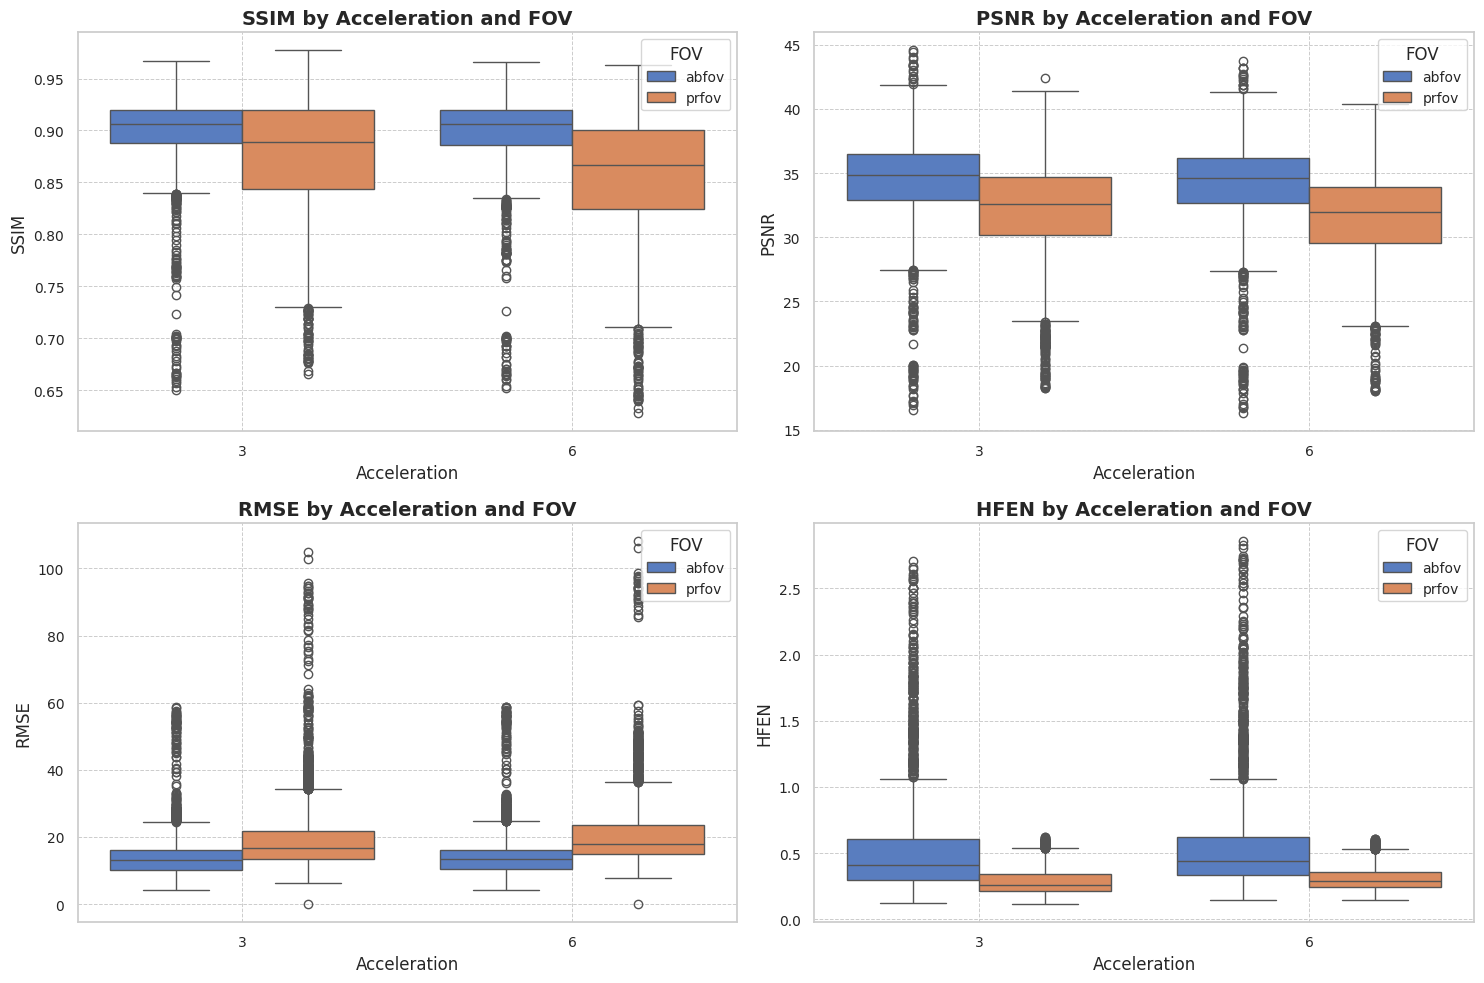
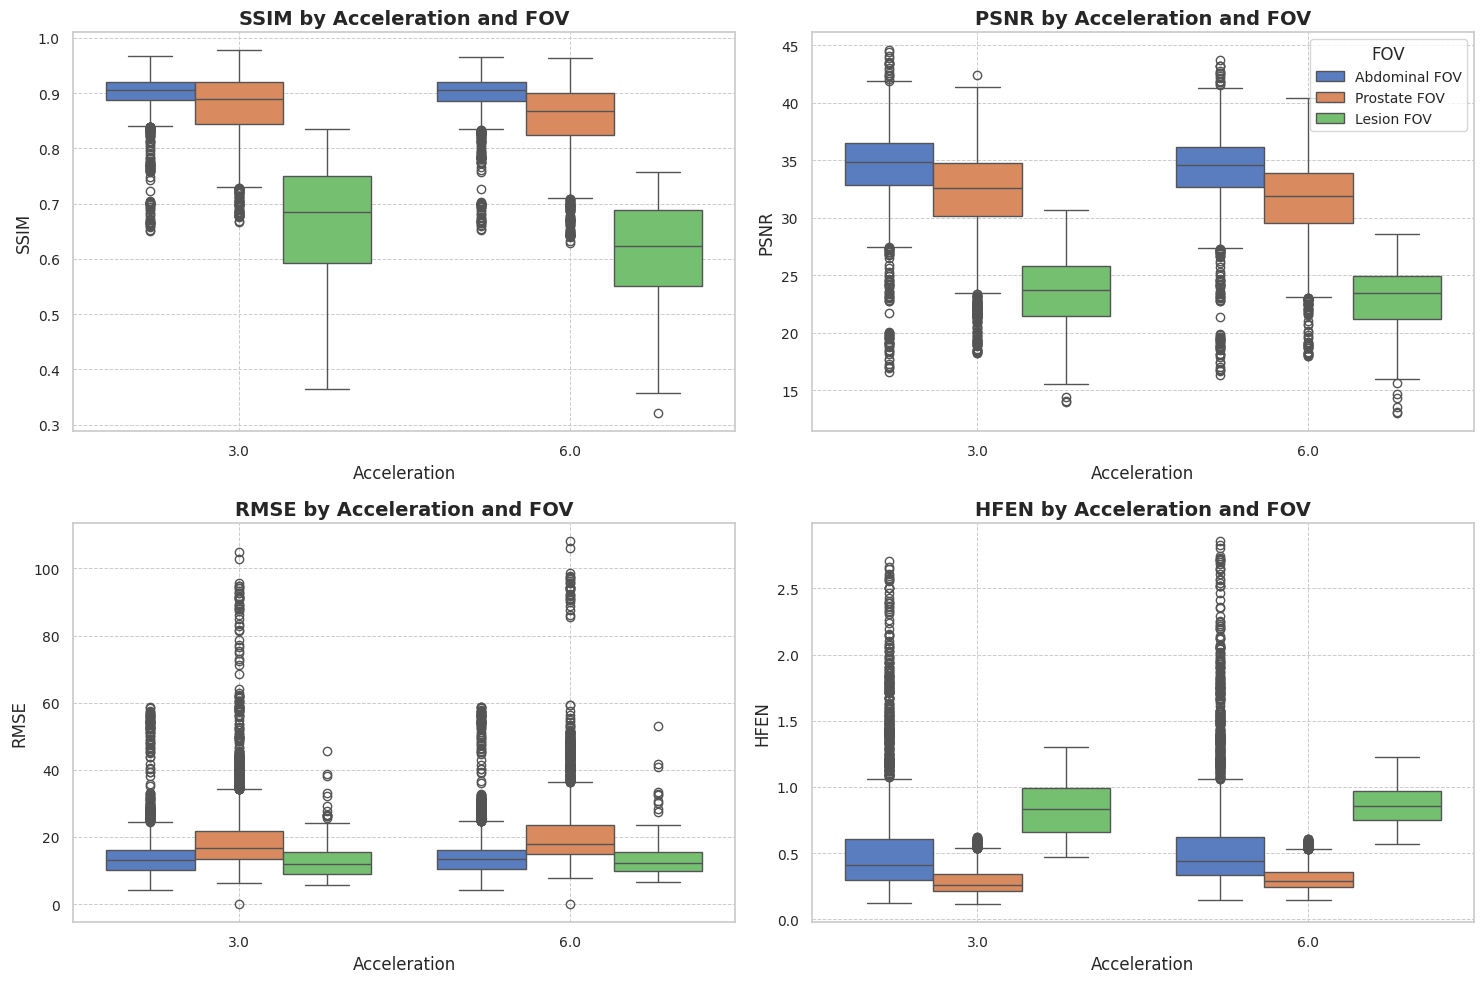
Updated the legend of the boxplot

diff --git a/scripts/02_calculate_iqms_to_csv.py b/scripts/02_calculate_iqms_to_csv.py
@@ -361,17 +361,23 @@ def calc_iqms_on_all_patients(
                     recon_fpath = [x for x in acc_pat_dir.iterdir() if f"vsharpnet_r{acc}_recon.nii.gz" in x.name.lower()][0]
                     recon       = load_nifti_as_array(recon_fpath)
                     df          = calc_iqm_and_add_to_df(df, recon, loaded_fovs['abfov'], pat_dir, acc, iqms, fov, decimals, iqm_mode, logger)
-
                 elif fov == 'prfov':
                     recon_fpath = [x for x in pat_dir.iterdir() if f"vsharp_r{acc}_recon_dcml" in x.name.lower()][0]
                     recon       = load_nifti_as_array(recon_fpath)
                     df          = calc_iqm_and_add_to_df(df, recon, loaded_fovs['prfov'], pat_dir, acc, iqms, fov, decimals, iqm_mode, logger)
-
                 elif fov == 'lsfov':
                     ref_nifti = sitk.ReadImage(str(fov_files['prfov']))  # sitk image for resampling
                     for seg_idx, seg_fpath in enumerate(fov_files[fov]):
                         df, _ = process_lesion_fov(df, seg_idx, recon, loaded_fovs['prfov'], seg_fpath, ref_nifti, pat_dir, acc, iqms, decimals, logger)
-            
+                elif fov == 'fat':
+                    pass
+                elif fov == 'bone':
+                    pass
+                elif fov == 'muscle':
+                    pass
+                elif fov == 'prostate':
+                    pass
+
             # Calculate an SSIM map of the reconstruction versus the target
             if do_ssim_map:
                 ref_nifti = sitk.ReadImage(str(pat_dir / "recons" / f"RIM_R{acc}_recon_{pat_dir.name}_pst_T2_dcml_target.nii.gz"))
@@ -422,6 +428,7 @@ def calc_or_load_iqms_df(
     force_new_csv: bool,
     iqms: List[str],
     logger: logging.Logger,
+    debug: bool = False,
     **cfg,
 ) -> pd.DataFrame:
     '''
@@ -437,6 +444,9 @@ def calc_or_load_iqms_df(
     Returns:
     `df`: The DataFrame with the IQMs for all patients.
     '''
+    if debug:       # lets add 'debug' reight before the file extension of the csv_out_fpath
+        csv_out_fpath = csv_out_fpath.parent / (csv_out_fpath.stem + '_debug' + csv_out_fpath.suffix)
+
     if not csv_out_fpath.exists() or force_new_csv:
         df = init_empty_dataframe(iqms, logger)
         df = calc_iqms_on_all_patients(
@@ -451,7 +461,6 @@ def calc_or_load_iqms_df(
         df = pd.read_csv(csv_out_fpath, sep=';')
         logger.info(f"Loaded DataFrame from {csv_out_fpath}")
     return df
-
 
 
 def make_iqms_plots(
@@ -636,7 +645,7 @@ def get_configurations() -> dict:
         'do_ssim_map':        False,                             # Whether to calculate and save the SSIM map.
         'fovs':               ['abfov', 'prfov', 'lsfov'],       # FOVS options :['abfov','prfov','lsfov','fat','bone','muscle','prostate']
         # 'fovs':               ['lsfov'],       # FOVS options :['abfov','prfov','lsfov','fat','bone','muscle','prostate']
-        'debug':              True,                              # Whether to run in debug mode.
+        'debug':              False,                              # Whether to run in debug mode.
         'force_new_csv':      False,                              # Whether to overwrite the existing CSV file.
     }
 
@@ -659,7 +668,6 @@ if __name__ == "__main__":
     if cfg['debug']:
         cfg['include_list'] = ['0053_ANON5517301', '0032_ANON7649583', '0120_ANON7275574']  # Random selection of patients for debugging
         cfg['include_list'] = ['0003_ANON5046358', '0006_ANON2379607', '0007_ANON1586301']  # have rois 
-    
     
     PADDING             = 20
     DO_SAVE_LESION_SEGS = True

diff --git a/scripts/visualization.py b/scripts/visualization.py
@@ -294,9 +294,17 @@ def plot_all_iqms_vs_accs_vs_fovs_boxplot(
             # Add sample size to legend
             handles, labels = ax.get_legend_handles_labels()
             sample_counts = df.groupby(['acceleration', 'roi']).size().unstack().fillna(0)
-            new_labels = [f'{label} (n={int(sample_counts[col][acc])})' 
-                        for col, label in zip(sample_counts.columns, labels) 
-                        for acc in sample_counts.index]
+            
+            # Construct new labels with sample sizes
+            sample_count_dict = sample_counts.sum().to_dict()
+            new_labels = []
+            for label in labels:
+                fov_name = ' '.join(label.split()[:-2])  # Extract FOV name without the sample size part
+                if fov_name in sample_count_dict:
+                    new_labels.append(f'{label} (n={sample_count_dict[fov_name]})')
+                else:
+                    new_labels.append(label)  # Use the original label if mapping fails
+
             ax.legend(handles, new_labels, title='FOV', loc='upper right')
             
             plt.grid(True, linestyle='--', linewidth=0.7)
@@ -319,9 +327,17 @@ def plot_all_iqms_vs_accs_vs_fovs_boxplot(
         if i == 1:  # Enable legend only for the second plot (index 1)
             handles, labels = ax.get_legend_handles_labels()
             sample_counts = df.groupby(['acceleration', 'roi']).size().unstack().fillna(0)
-            new_labels = [f'{label} (n={int(sample_counts[col][acc])})' 
-                        for col, label in zip(sample_counts.columns, labels) 
-                        for acc in sample_counts.index]
+            
+            # Construct new labels with sample sizes
+            sample_count_dict = sample_counts.sum().to_dict()
+            new_labels = []
+            for label in labels:
+                fov_name = ' '.join(label.split()[:-2])  # Extract FOV name without the sample size part
+                if fov_name in sample_count_dict:
+                    new_labels.append(f'{label} (n={sample_count_dict[fov_name]})')
+                else:
+                    new_labels.append(label)  # Use the original label if mapping fails
+
             ax.legend(handles, new_labels, title='FOV', loc='upper right')
         else:
             ax.legend_.remove()  # Remove the legend from other plots
